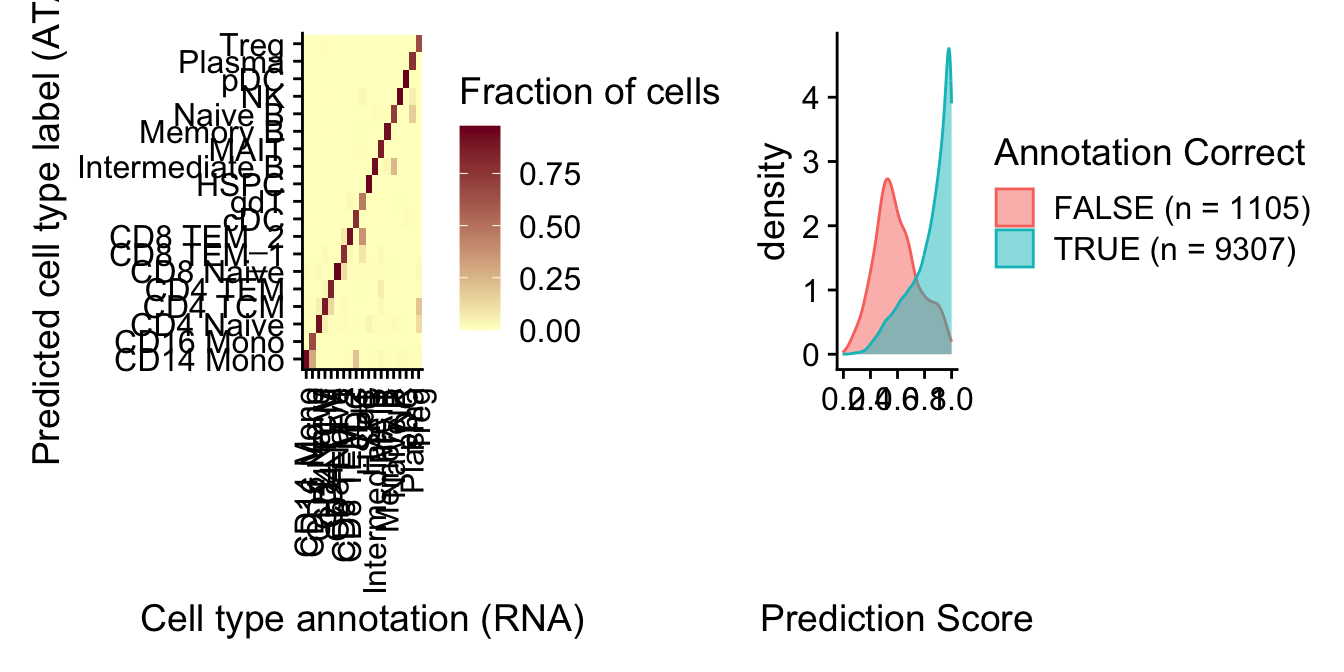
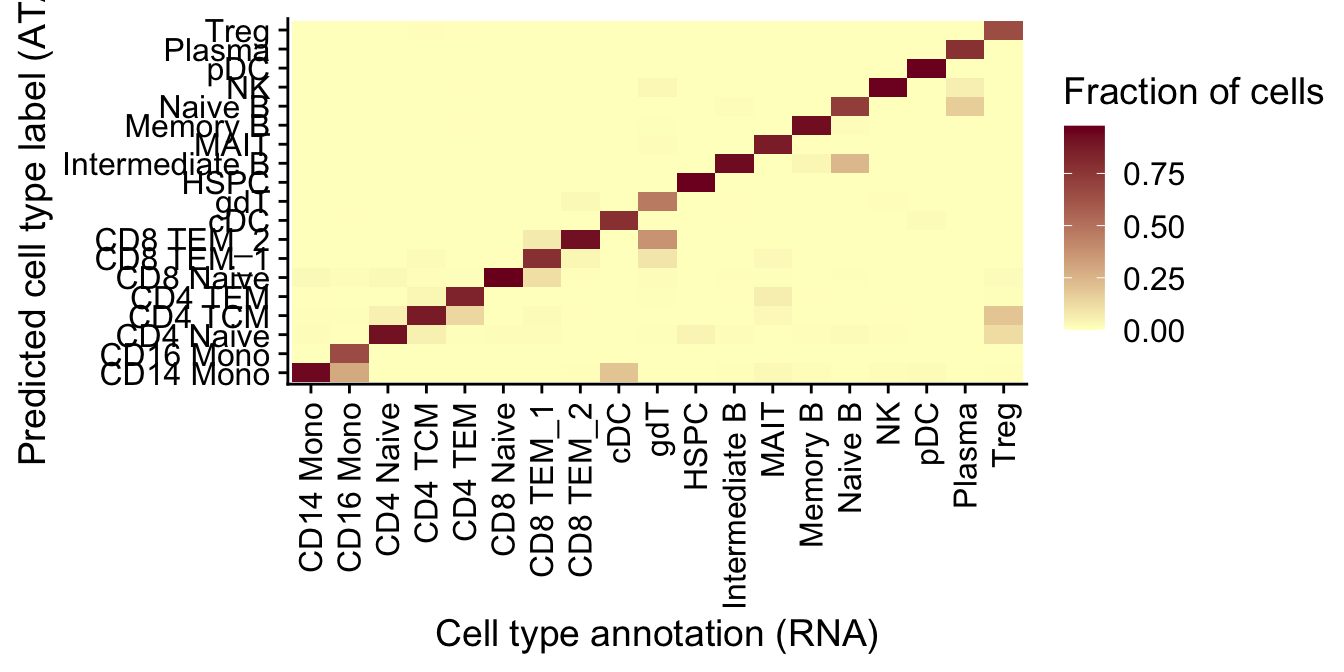
a

diff --git a/docs/data-integration.html b/docs/data-integration.html
@@ -271,16 +271,22 @@ code span.wa { color: #60a0b0; font-weight: bold; font-style: italic; } /* Warni
 <span id="cb5-4"><a href="data-integration.html#cb5-4" tabindex="-1"></a>pbmc.atac <span class="ot">&lt;-</span> <span class="fu">AddMetaData</span>(pbmc.atac, <span class="at">metadata =</span> celltype.predictions)</span></code></pre></div>
 <p>After performing transfer, the ATAC-seq cells have predicted annotations (transferred from the scRNA-seq dataset) stored in the predicted.id field. Since these cells were measured with the multiome kit, we also have a ground-truth annotation that can be used for evaluation. You can see that the predicted and actual annotations are extremely similar.</p>
 <div class="figure" style="text-align: center"><span style="display:block;" id="fig:unnamed-chunk-8"></span>
-<img src="bookdown-demo_files/figure-html/unnamed-chunk-8-1.png" alt="Compare cell labels in integrated vs truth" width="100%" />
+<img src="bookdown-demo_files/figure-html/unnamed-chunk-8-1.png" alt="Compare cell labels in integrated vs truth" width="150%" />
 <p class="caption">
 Figure 8.1: Compare cell labels in integrated vs truth
 </p>
 </div>
 <p>In this example, the annotation for an scATAC-seq profile is correctly predicted via scRNA-seq integration ~90% of the time. In addition, the prediction.score.max field quantifies the uncertainty associated with our predicted annotations. We can see that cells that are correctly annotated are typically associated with high prediction scores (&gt;90%), while cells that are incorrectly annotated are associated with sharply lower prediction scores (&lt;50%). Incorrect assignments also tend to reflect closely related cell types (i.e. Intermediate vs. Naive B cells).</p>
-<div class="figure" style="text-align: center"><span style="display:block;" id="fig:unnamed-chunk-9"></span>
+<div class="figure" style="text-align: center"><span style="display:block;" id="fig:unnamed-chunk-9-1"></span>
 <img src="bookdown-demo_files/figure-html/unnamed-chunk-9-1.png" alt="Prediction accuracy" width="150%" />
 <p class="caption">
 Figure 8.2: Prediction accuracy
+</p>
+</div>
+<div class="figure" style="text-align: center"><span style="display:block;" id="fig:unnamed-chunk-9-2"></span>
+<img src="bookdown-demo_files/figure-html/unnamed-chunk-9-2.png" alt="Prediction accuracy" width="150%" />
+<p class="caption">
+Figure 8.3: Prediction accuracy
 </p>
 </div>
 <div class="sourceCode" id="cb6"><pre class="sourceCode r"><code class="sourceCode r"><span id="cb6-1"><a href="data-integration.html#cb6-1" tabindex="-1"></a><span class="fu">saveRDS</span>(pbmc.atac,<span class="at">file=</span><span class="st">&quot;pbmc_atac_integrated.rds&quot;</span>)</span></code></pre></div>
